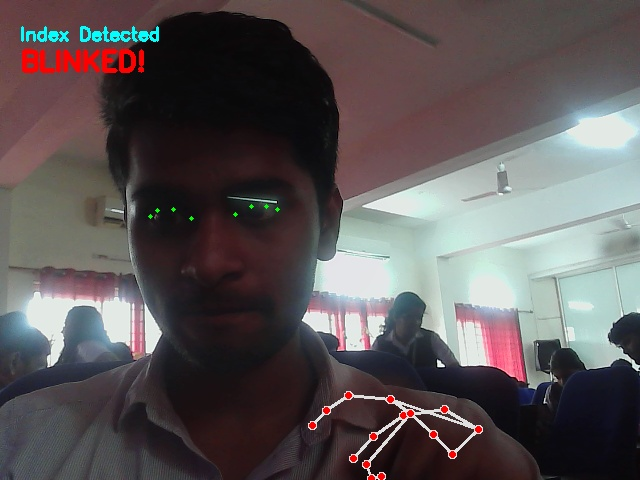
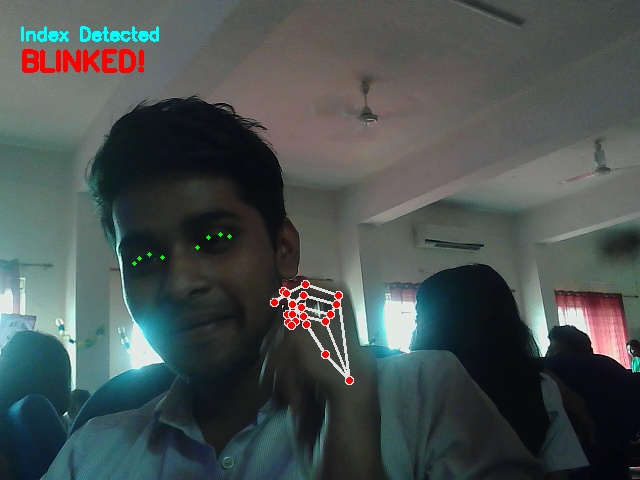
tomatoes added

diff --git a/thakkalimeter.py b/thakkalimeter.py
@@ -1,4 +1,3 @@
-# tomato_face.py
 import cv2
 import mediapipe as mp
 import math
@@ -6,8 +5,11 @@ import math
 def estimate_tomatoes(image_path):
     mp_face_mesh = mp.solutions.face_mesh
     face_mesh = mp_face_mesh.FaceMesh(static_image_mode=True)
-    
+
     image = cv2.imread(image_path)
+    if image is None:
+        print("Failed to read image.")
+        return
     rgb = cv2.cvtColor(image, cv2.COLOR_BGR2RGB)
     results = face_mesh.process(rgb)
 
@@ -18,17 +20,36 @@ def estimate_tomatoes(image_path):
         ys = [lm.y * h for lm in landmarks]
         x_min, x_max = int(min(xs)), int(max(xs))
         y_min, y_max = int(min(ys)), int(max(ys))
-        face_area = (x_max - x_min) * (y_max - y_min)
+        face_width = x_max - x_min
+        face_height = y_max - y_min
 
+        # Dynamically choose tomato radius (fit approx 6–10 in a row)
+        tomatoes_per_row = 6
         tomato_radius = 20
-        tomato_area = math.pi * (tomato_radius ** 2)
-        tomato_count = int(face_area / tomato_area)
+        tomato_diameter = tomato_radius * 2
 
+        cols = face_width // tomato_diameter
+        rows = face_height // tomato_diameter
+        total_tomatoes = cols * rows
+
+        # Draw tomato circles over the face
+        for i in range(rows):
+            for j in range(cols):
+                cx = x_min + j * tomato_diameter + tomato_radius
+                cy = y_min + i * tomato_diameter + tomato_radius
+                cv2.circle(image, (cx, cy), tomato_radius, (0, 0, 255), -1)
+
+        # Draw bounding box and label
         cv2.rectangle(image, (x_min, y_min), (x_max, y_max), (0, 255, 0), 2)
-        cv2.putText(image, f'{tomato_count} tomatoes fit!', (x_min, y_min - 10),
-                    cv2.FONT_HERSHEY_SIMPLEX, 0.8, (0, 0, 255), 2)
+        cv2.putText(image, f'{total_tomatoes} tomatoes fit!', (x_min, y_min - 10),
+                    cv2.FONT_HERSHEY_SIMPLEX, 0.8, (255, 255, 255), 2)
 
-        cv2.imshow("Tomato Estimation", image)
+        cv2.imshow("Thakkalimeter™", image)
         cv2.waitKey(0)
         cv2.destroyAllWindows()
+    else:
+        print("No face detected.")
 
+# Test
+if __name__ == "__main__":
+    estimate_tomatoes("face.jpg")  # replace with captured image path
